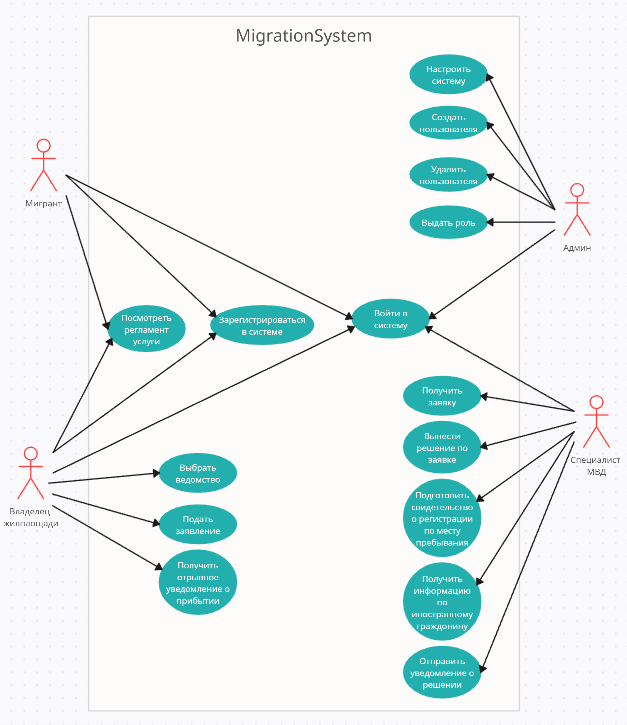
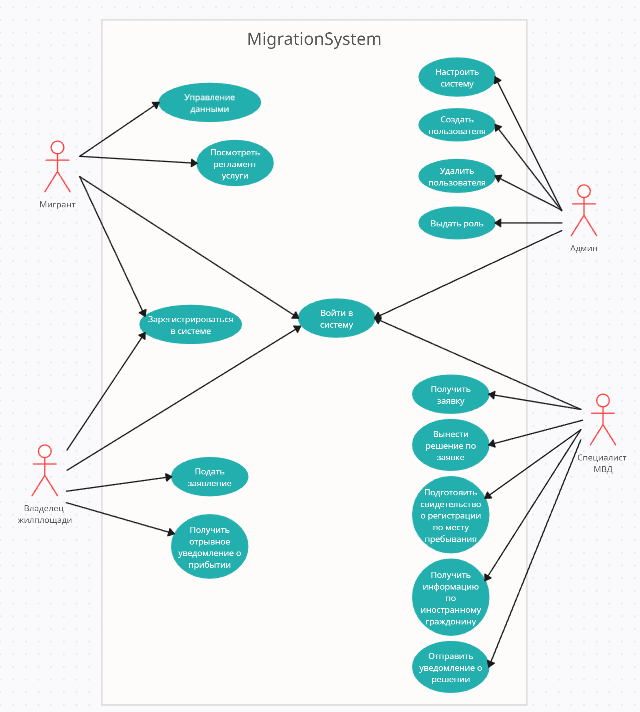
review usecase model

diff --git a/descriptionUseCase.md b/descriptionUseCase.md
@@ -28,14 +28,49 @@
 <tr>
 <td></td>
 <td>Система требует данные о пользователе:
+<br>1)	Указывает мобильный телефон / электронную почту
+<br>2)	Указывает пароль
+</td>
+</tr>
+<tr>
+<th>Пользователь вводит данные и подтверждает</th>
+<th></th>
+</tr>
+<tr>
+<th></th>
+<th>Система проверяет корректность данных:
+<br>1.	Почта и телефон должны быть действующими
+<br>2.  Пароль удовлетворяет условиям 
+</th>
+</tr>
+<tr>
+<th></th>
+<th>Система уведомляет пользователя о результате регистрации</th>
+</tr>
+</tbody>
+</table>
+
+Сценарий использования "Управление данными"
+<table>
+<thead>
+<tr>
+<th>Actor</th>
+<th>System</th>
+</tr>
+</thead>
+<tbody>
+<tr>
+<td>Пользователь инициирует изменение данных</td>
+<td></td>
+</tr>
+<tr>
+<td></td>
+<td>Система требует новые данные о пользователе:
 <br>1)	Дата въезда в Россию.
 <br>2)	Гражданином какой страны вы являетесь.
 <br>3)	Являетесь ли вы или член вашей семьи высококвалифицированным специалистом своей области.
 <br>4)	Входите ли вы в государственную программу переселения.
 <br>5)	Состояли ли вы или член вашей семьи ранее на миграционном учёте.
-<br>6)	Указывает мобильный телефон
-<br>7)	Указывает электронную почту
-<br>8)	Указывает пароль
 </td>
 </tr>
 <tr>
@@ -47,15 +82,15 @@
 <th>Система проверяет корректность данных:
 <br>1.	Дата не может быть позднее сегодняшнего дня.
 <br>2.	Гражданство должно быть существующим.
-<br>3.	Почта и телефон должны быть действующими
 </th>
 </tr>
 <tr>
 <th></th>
-<th>Система уведомляет пользователя о результате регистрации</th>
+<th>Система уведомляет пользователя о результате изменения данных</th>
 </tr>
 </tbody>
 </table>
+
 
 Сценарий использования “Просмотреть регламент услуги”
 <table>
@@ -76,7 +111,7 @@
 </tr>
 <tr>
 <th></th>
-<th>Система выводит результат на основе регистрации:
+<th>Система выводит результат на основе данных о пользователе:
 <br>1)	Если пользователь гражданин Киргизии, Казахстана, Армении или высококвалифицированный специалист (если ранее состоял на миграционном учете в РФ) прибавляет 30 дней к дате въезда.
 <br>2)	Если пользователь гражданин Таджикистана или Узбекистана прибавляет 15 дней к дате въезда.
 <br>3)	Если пользователь гражданин другой страны прибавляет 7 дней к дате въезда.
